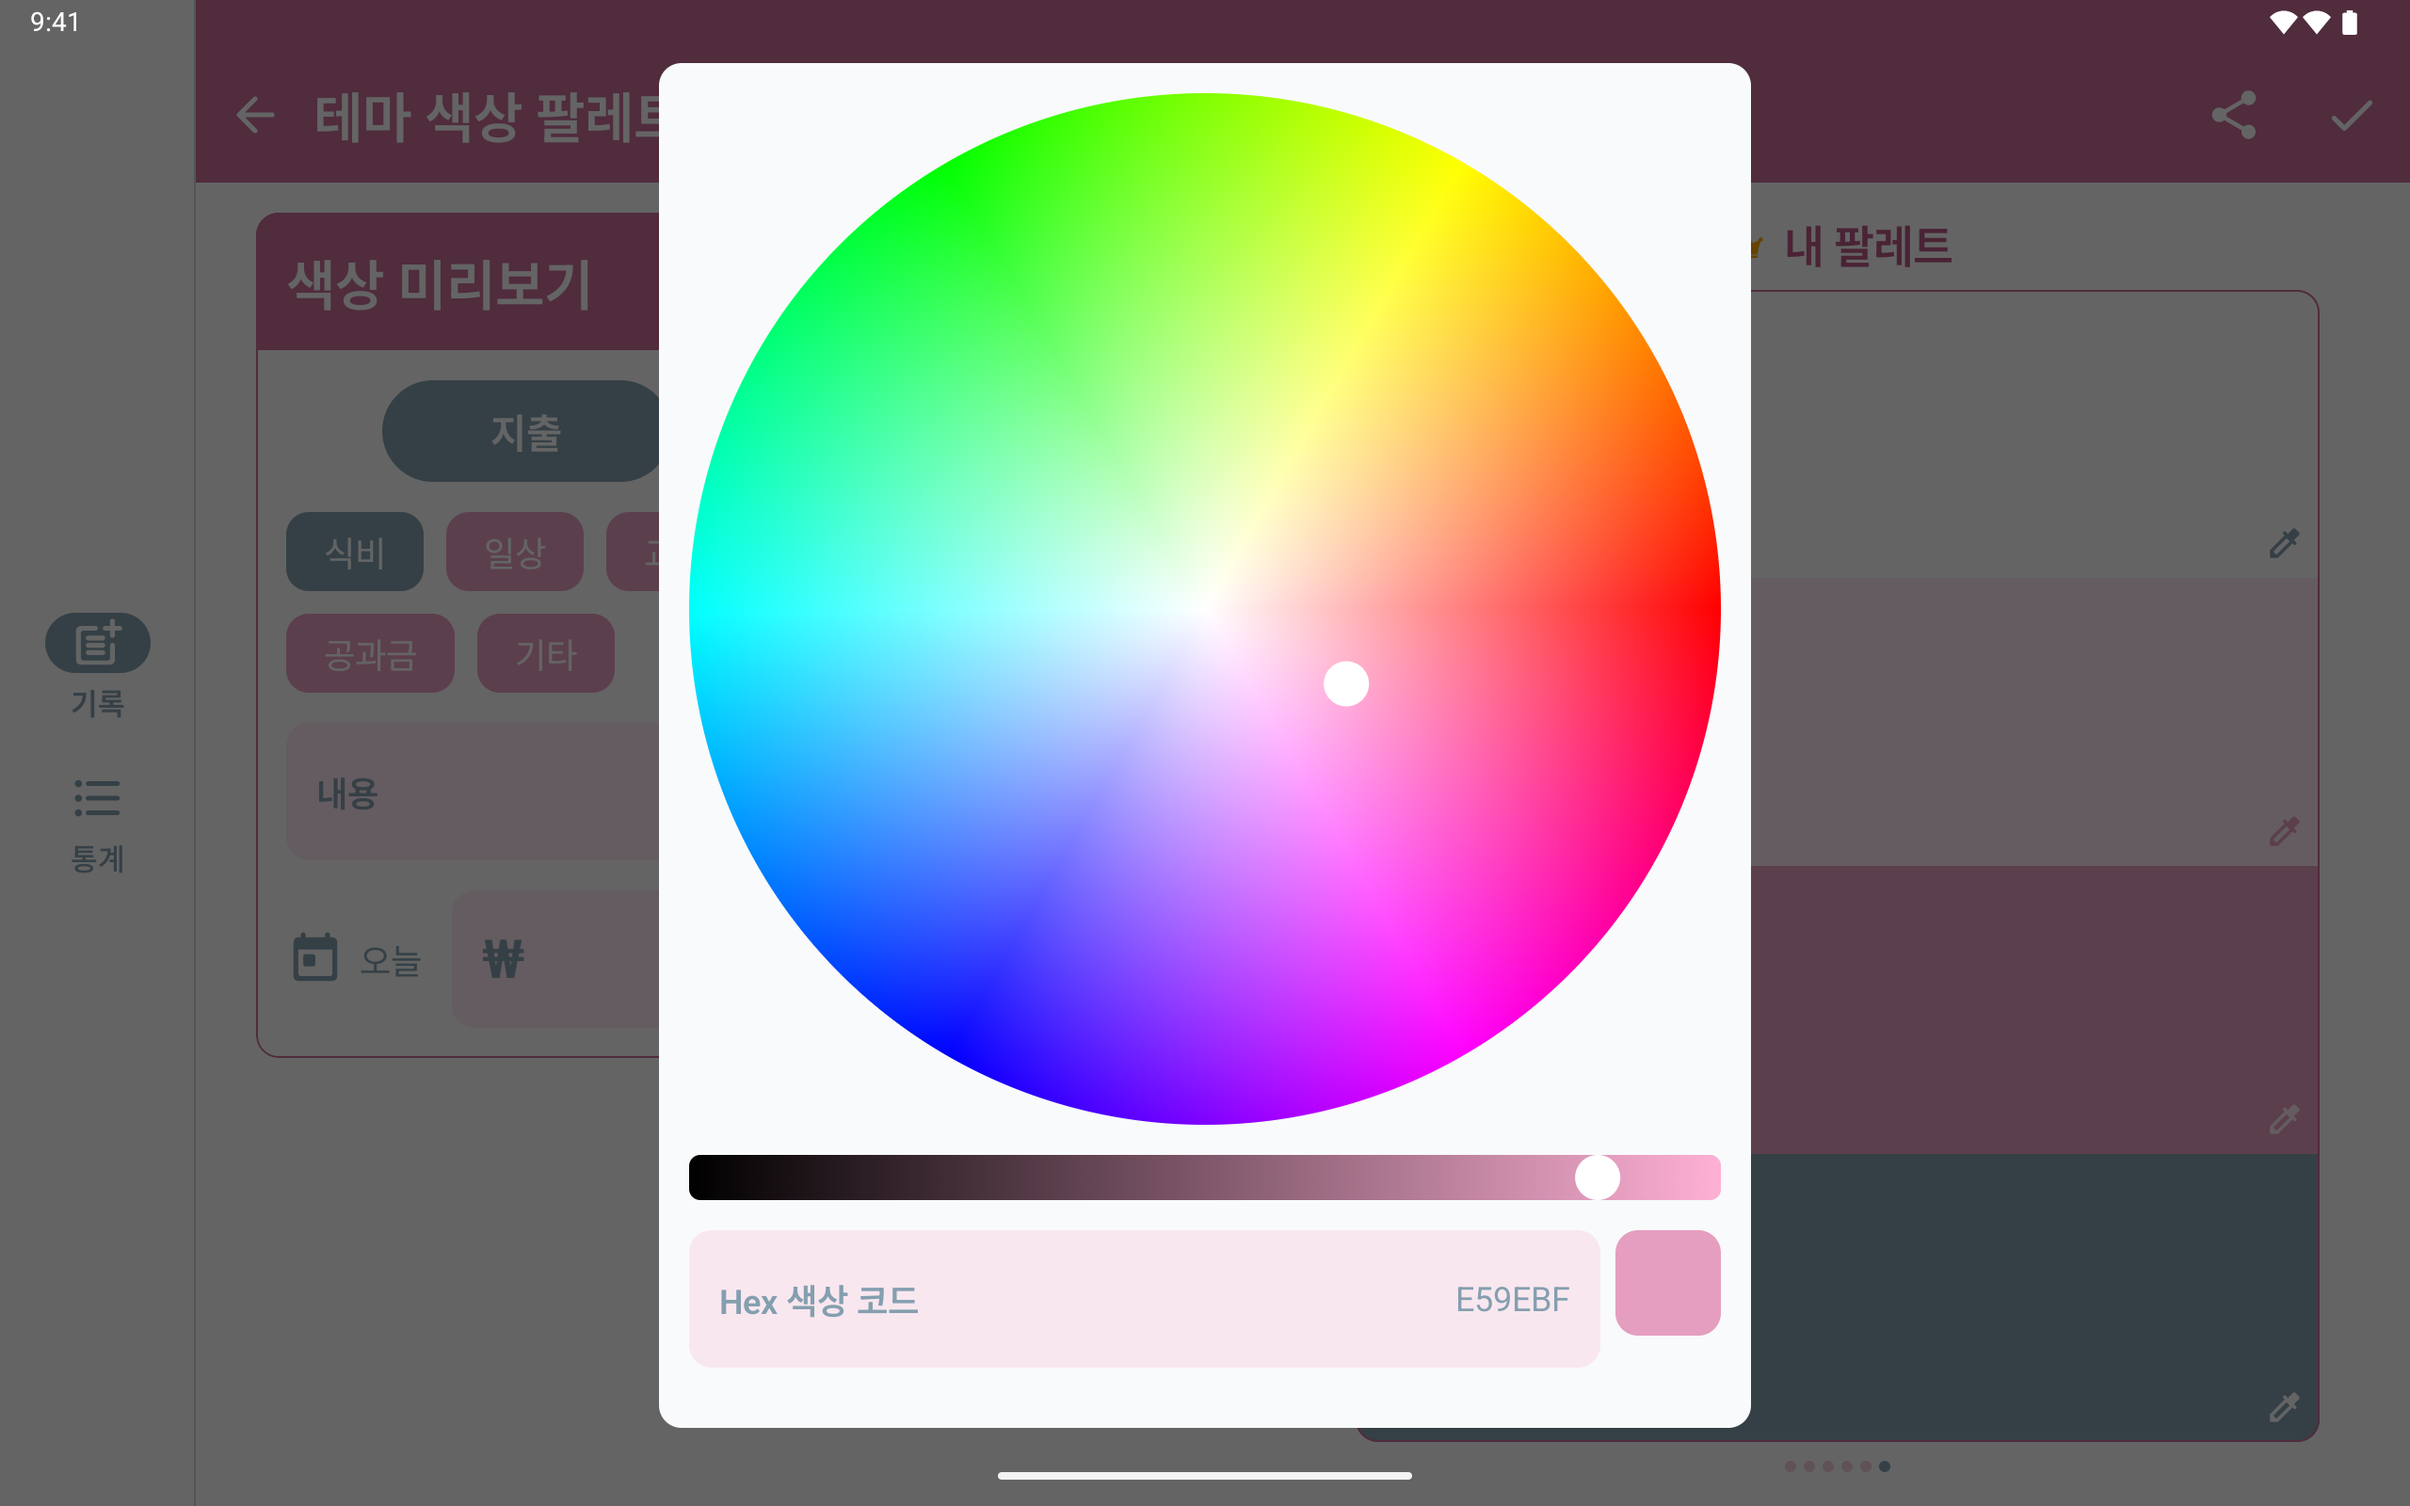
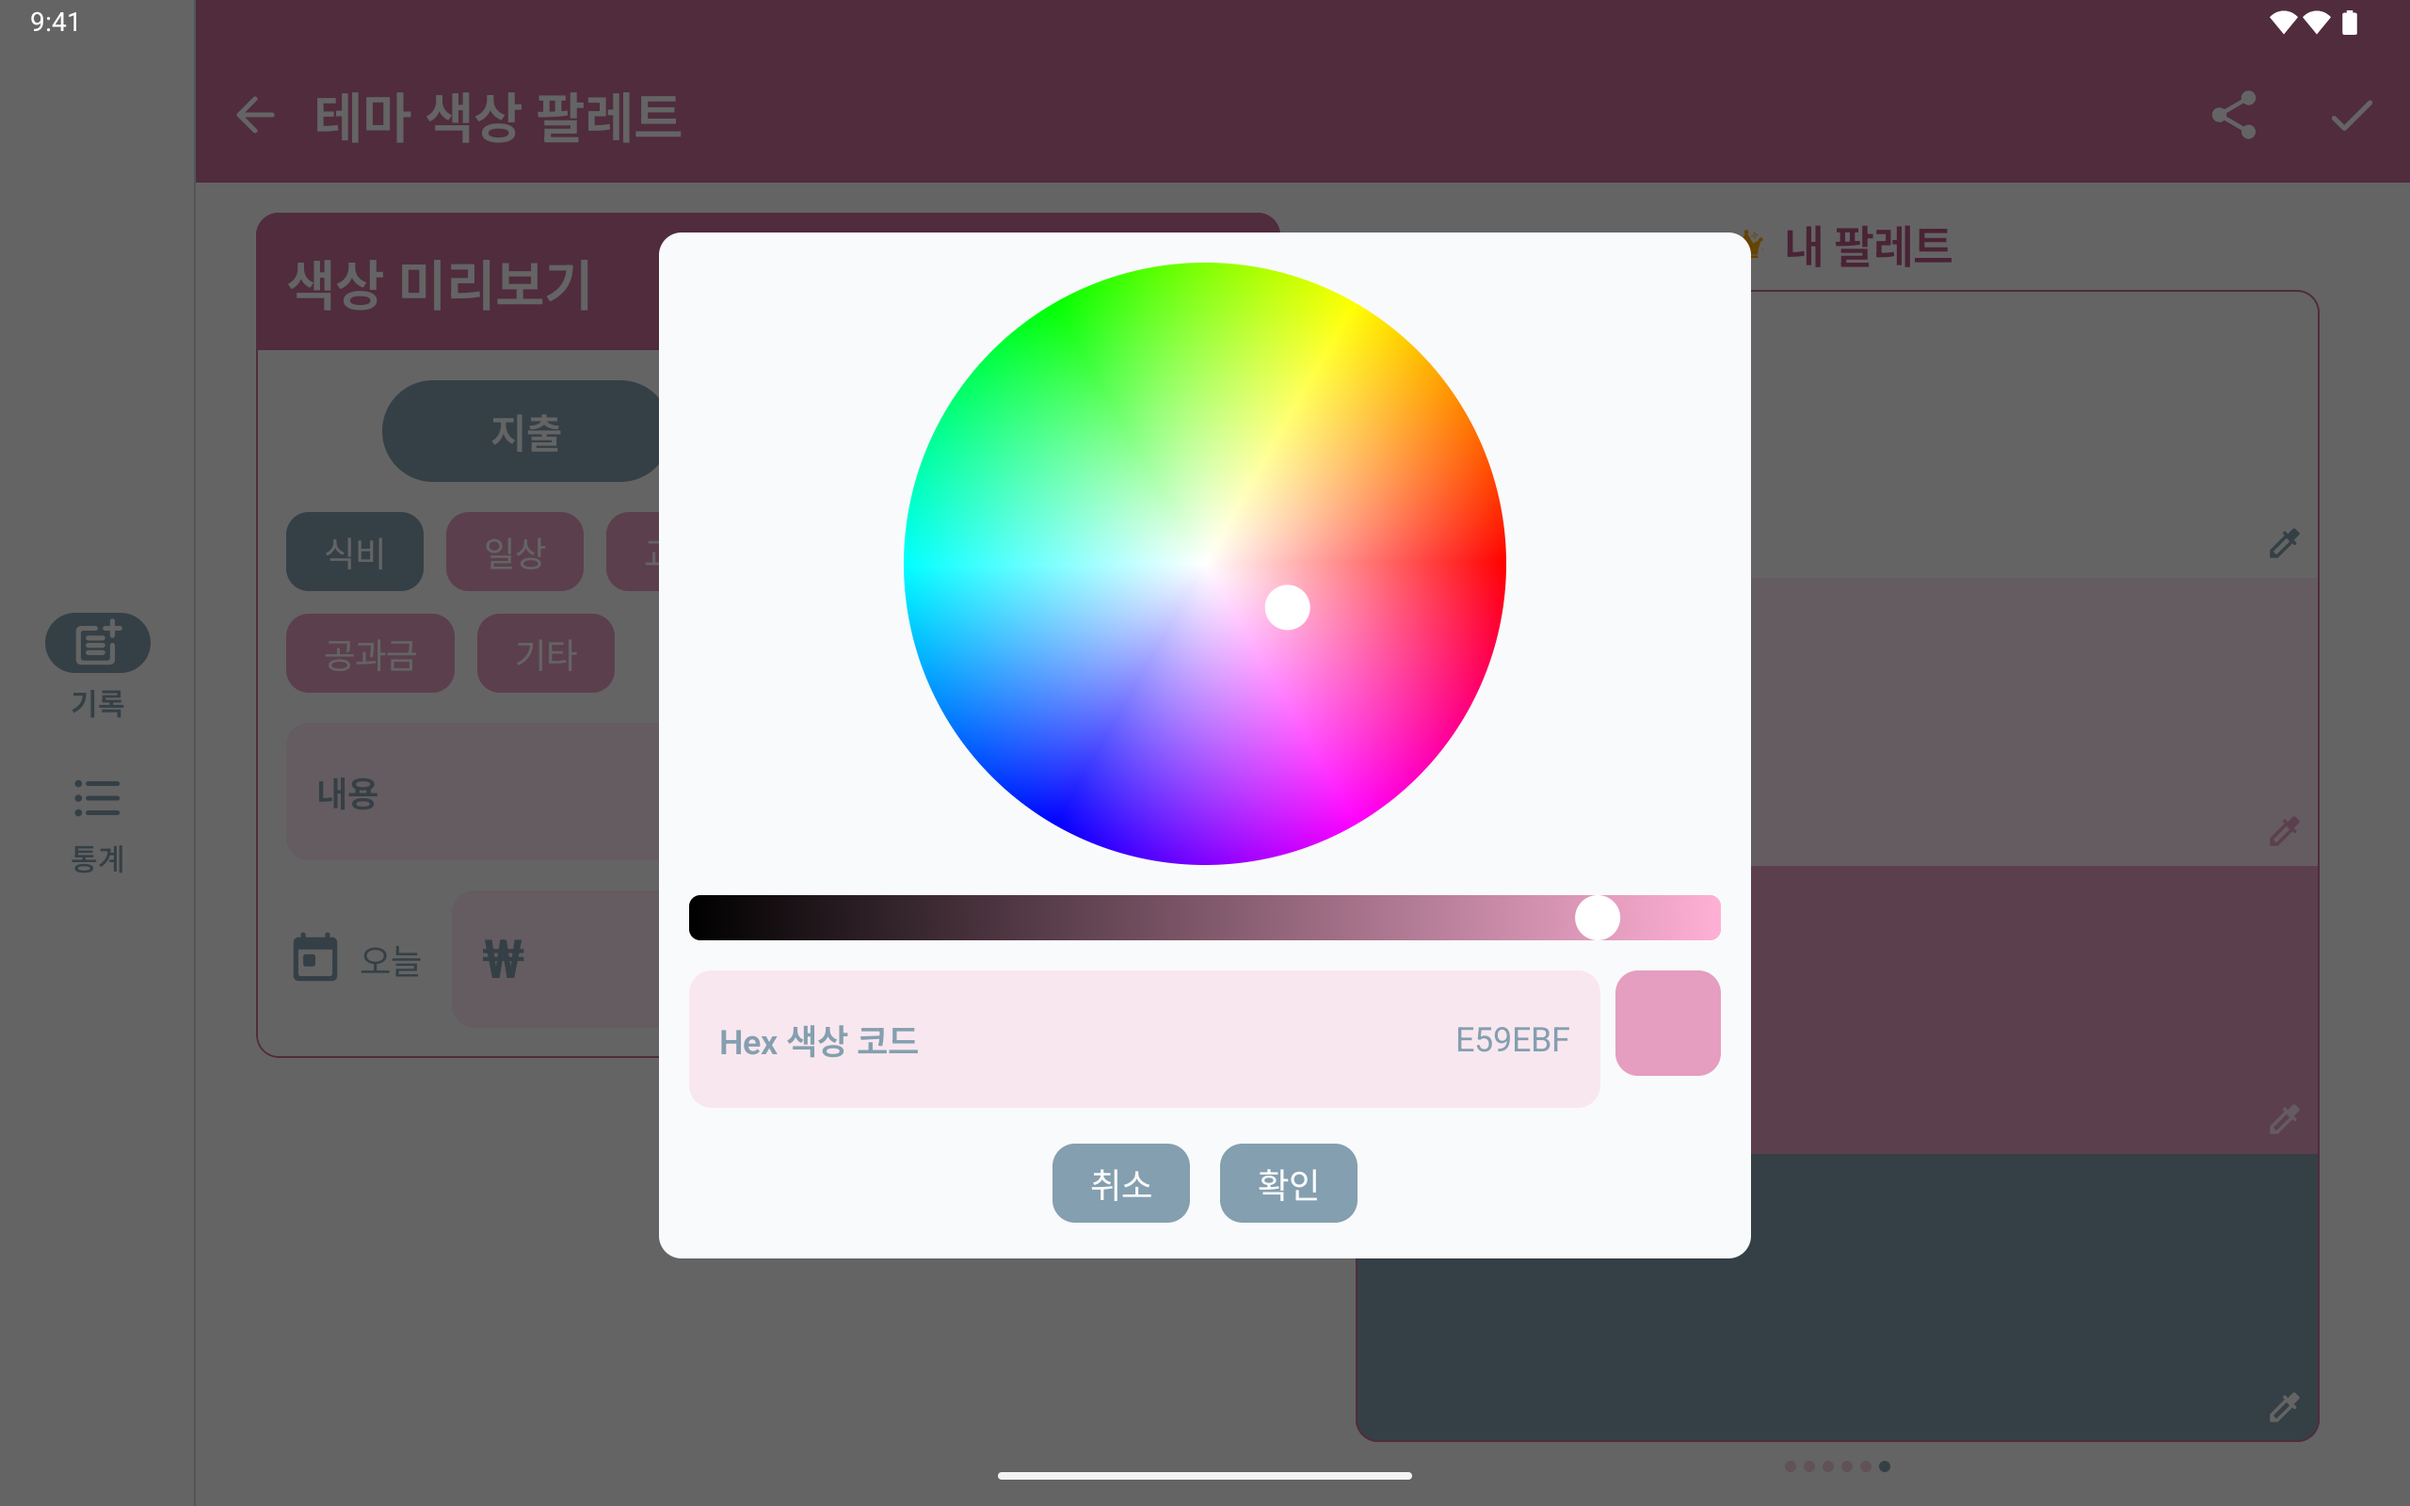
Limit color wheel size in ColorPickerDialog so buttons fit on tablets

diff --git a/feature/color-tone-picker/src/commonMain/kotlin/com/kevlina/budgetplus/feature/color/tone/picker/ui/ColorPickerDialog.kt b/feature/color-tone-picker/src/commonMain/kotlin/com/kevlina/budgetplus/feature/color/tone/picker/ui/ColorPickerDialog.kt
@@ -11,6 +11,7 @@ import androidx.compose.foundation.layout.fillMaxSize
 import androidx.compose.foundation.layout.fillMaxWidth
 import androidx.compose.foundation.layout.height
 import androidx.compose.foundation.layout.size
+import androidx.compose.foundation.layout.widthIn
 import androidx.compose.foundation.text.input.rememberTextFieldState
 import androidx.compose.foundation.text.input.setTextAndPlaceCursorAtEnd
 import androidx.compose.runtime.Composable
@@ -90,7 +91,9 @@ internal fun ColorPickerDialog(
             }
 
             HsvColorPicker(
-                modifier = Modifier.aspectRatio(1F),
+                modifier = Modifier
+                    .widthIn(max = 320.dp)
+                    .aspectRatio(1F),
                 initialColor = currentColor,
                 controller = controller,
                 onColorChanged = { envelope: ColorEnvelope ->
